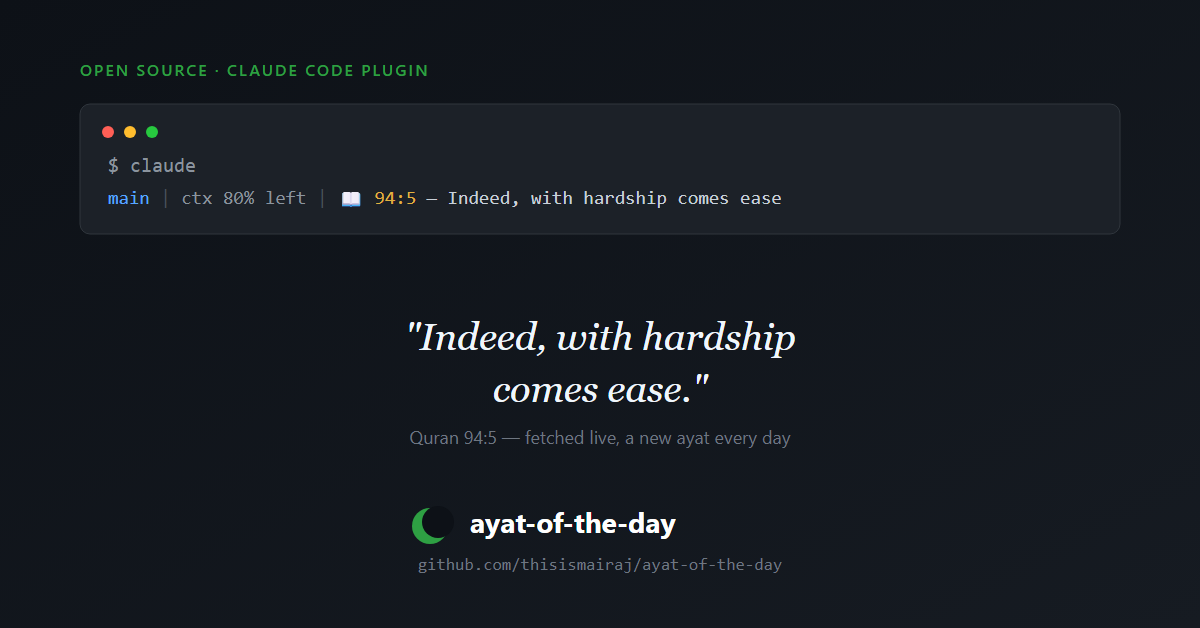
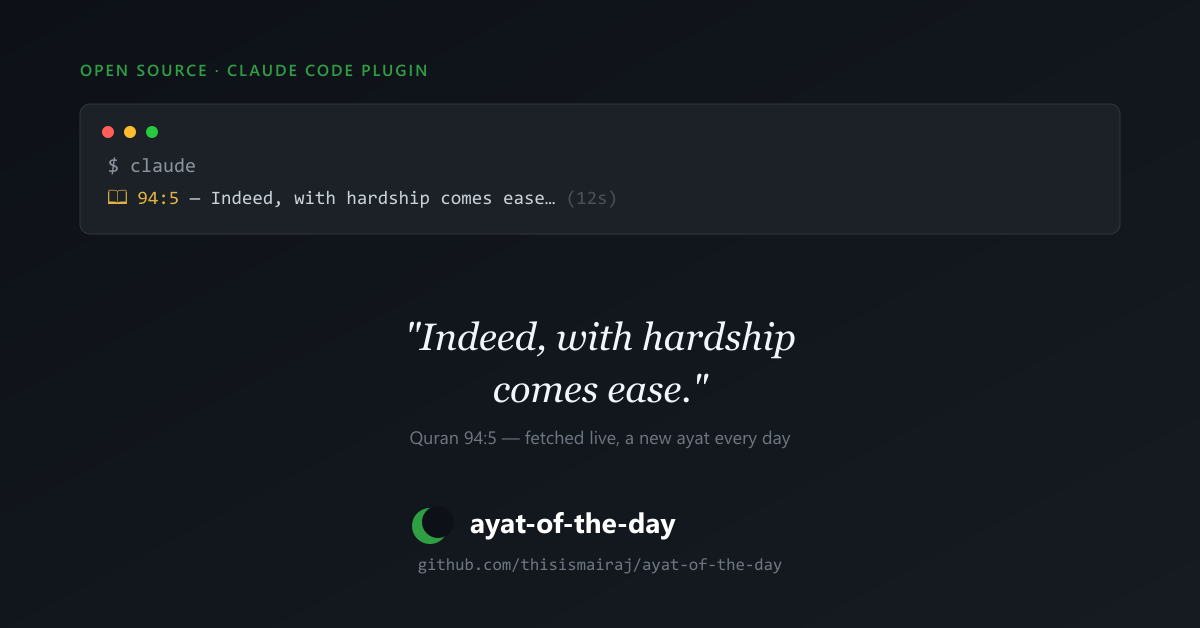
Single install path; refresh LinkedIn thumbnail; add .claude-brain to gitignore
README showed two redundant ways to run the same plugin install (slash
command vs CLI) - kept just the CLI form, since it works from any terminal
without needing an active Claude Code session already open.

diff --git a/README.md b/README.md
@@ -39,15 +39,6 @@ you're actually looking at the screen with nothing else to read), with
 
 ## Installation
 
-Inside a Claude Code session, run:
-
-```
-/plugin marketplace add thisismairaj/ayat-of-the-day
-/plugin install ayat-of-the-day
-```
-
-Or via the CLI:
-
 ```bash
 claude plugin marketplace add thisismairaj/ayat-of-the-day
 claude plugin install ayat-of-the-day
